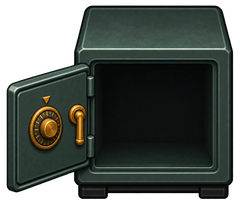
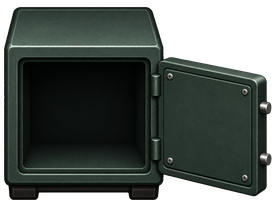
fix(infiltrados): show safe door interior opening to the right

diff --git a/apps/sessao/src/private-offices.ts b/apps/sessao/src/private-offices.ts
@@ -19,7 +19,7 @@ export const privateOffices = Array.from({length:6},(_,index)=>{
   };
 });
 export const officeFixtures = {
-  safe:{texture:'office-safe',openTexture:'office-safe-open',width:19,height:24,footOffset:8,openWidth:28.5,openOriginX:154/240},
+  safe:{texture:'office-safe',openTexture:'office-safe-open',width:19,height:24,footOffset:8,openWidth:33.25,openOriginX:84/280},
   cabinet:{texture:'office-cabinet',width:21,height:33,footOffset:8},
 } as const;
 export type OfficeLayout = typeof privateOffices[number];
